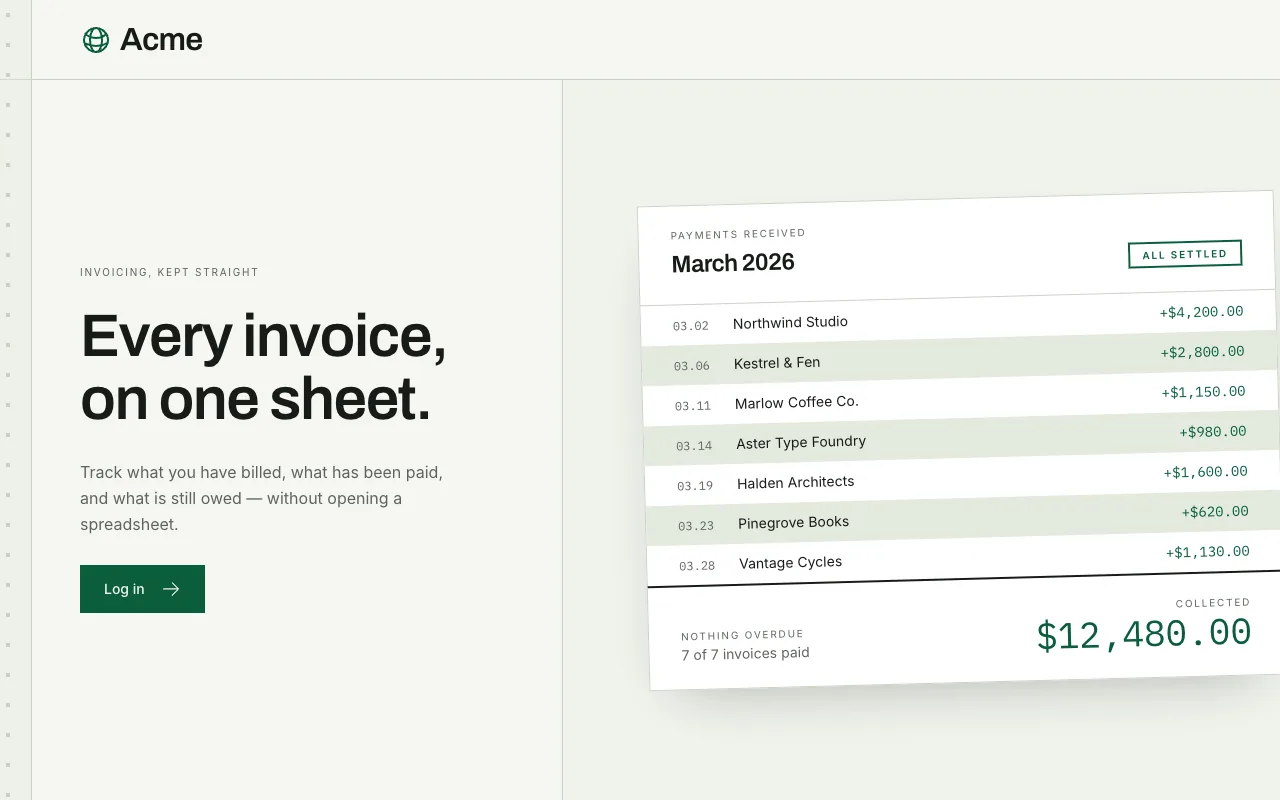
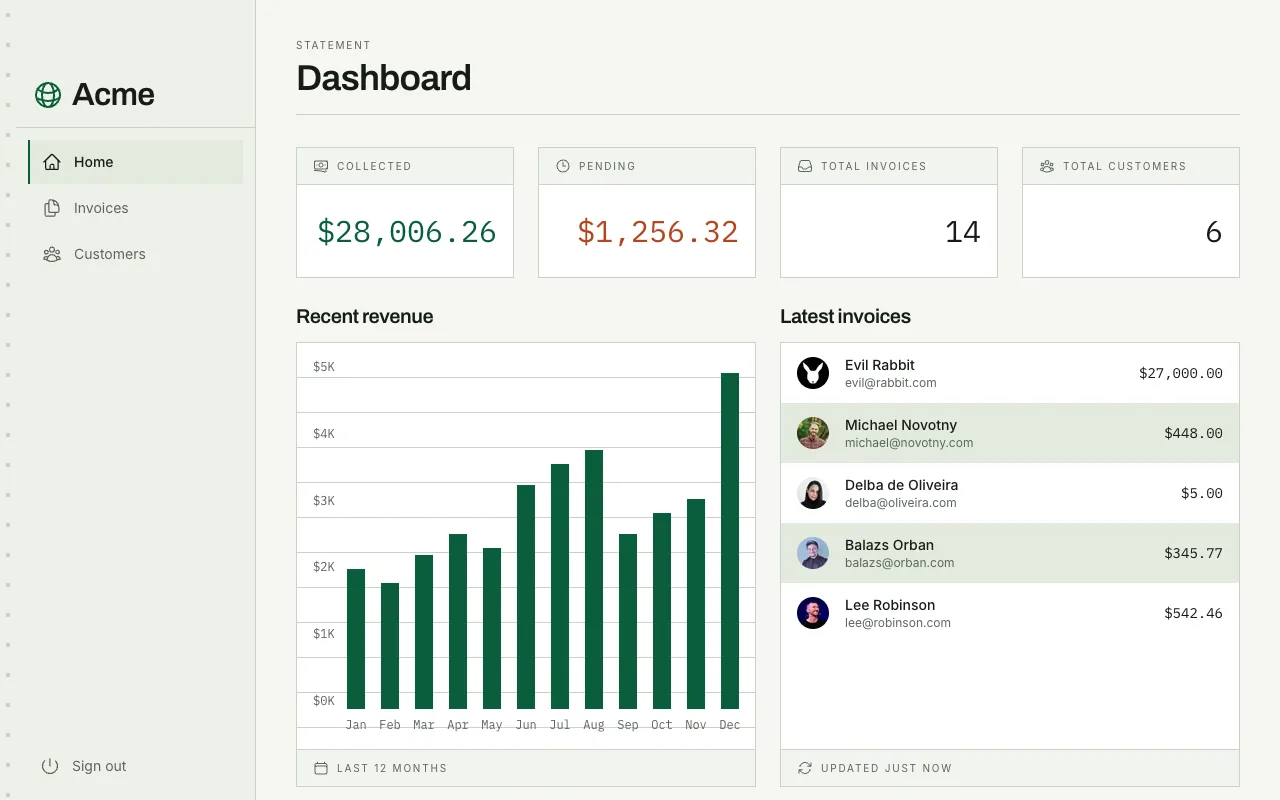
🎨 bytes: the financial peek shows its dashboard
- step 12 of FRM-257: inner shots with each app's test user
- financial: shot of /dashboard, logged in as the seed user the login form fills in by default
- space explorer keeps its public login shot: its login upserts by email, and no test user is seeded in production, so logging in could create one
- ticket: FRM-257

Agent: coder · Claude Opus 5.5

diff --git a/README.md b/README.md
@@ -59,7 +59,7 @@
 
 [live](https://financical.vercel.app) | [source](apps/financial)
 
-<details><summary>peek</summary><img src="assets/apps/financial.webp" width="100%" alt="financial: a sheet of march payments, all settled"></details>
+<details><summary>peek</summary><img src="assets/apps/financial.webp" width="100%" alt="financial: the dashboard with collected and pending totals, twelve months of revenue and the latest invoices"></details>
 
 <br clear="all">
 
